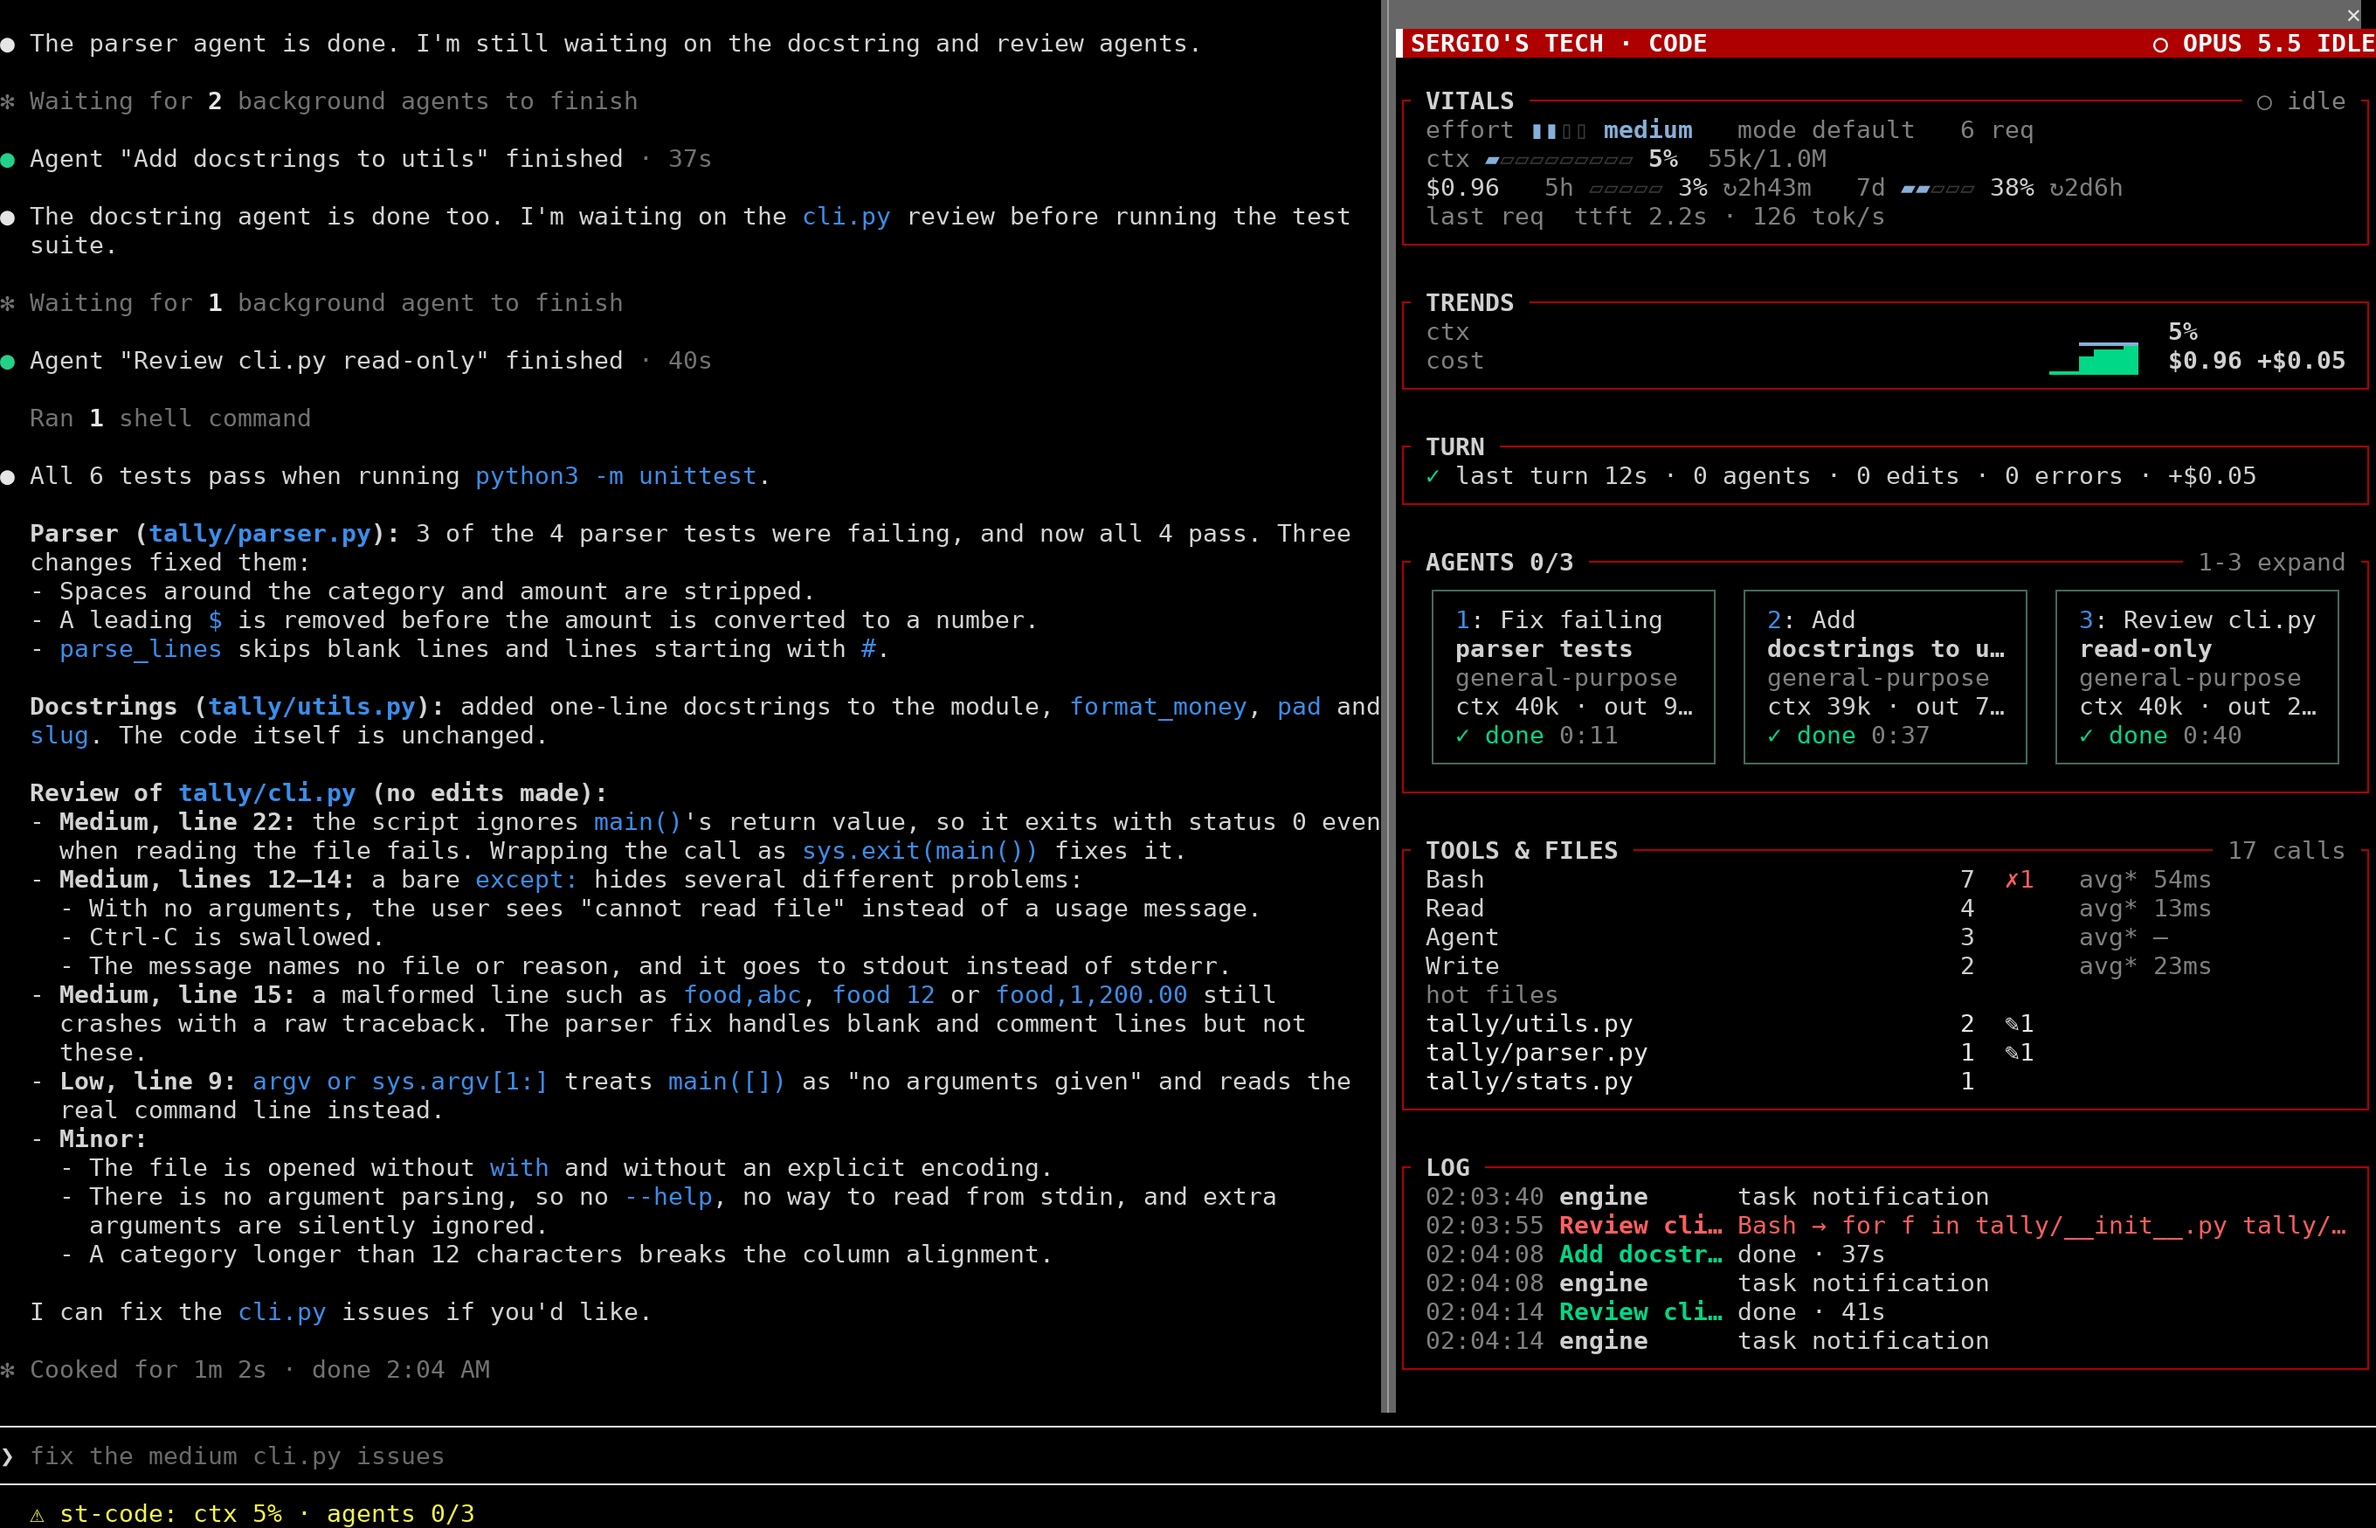
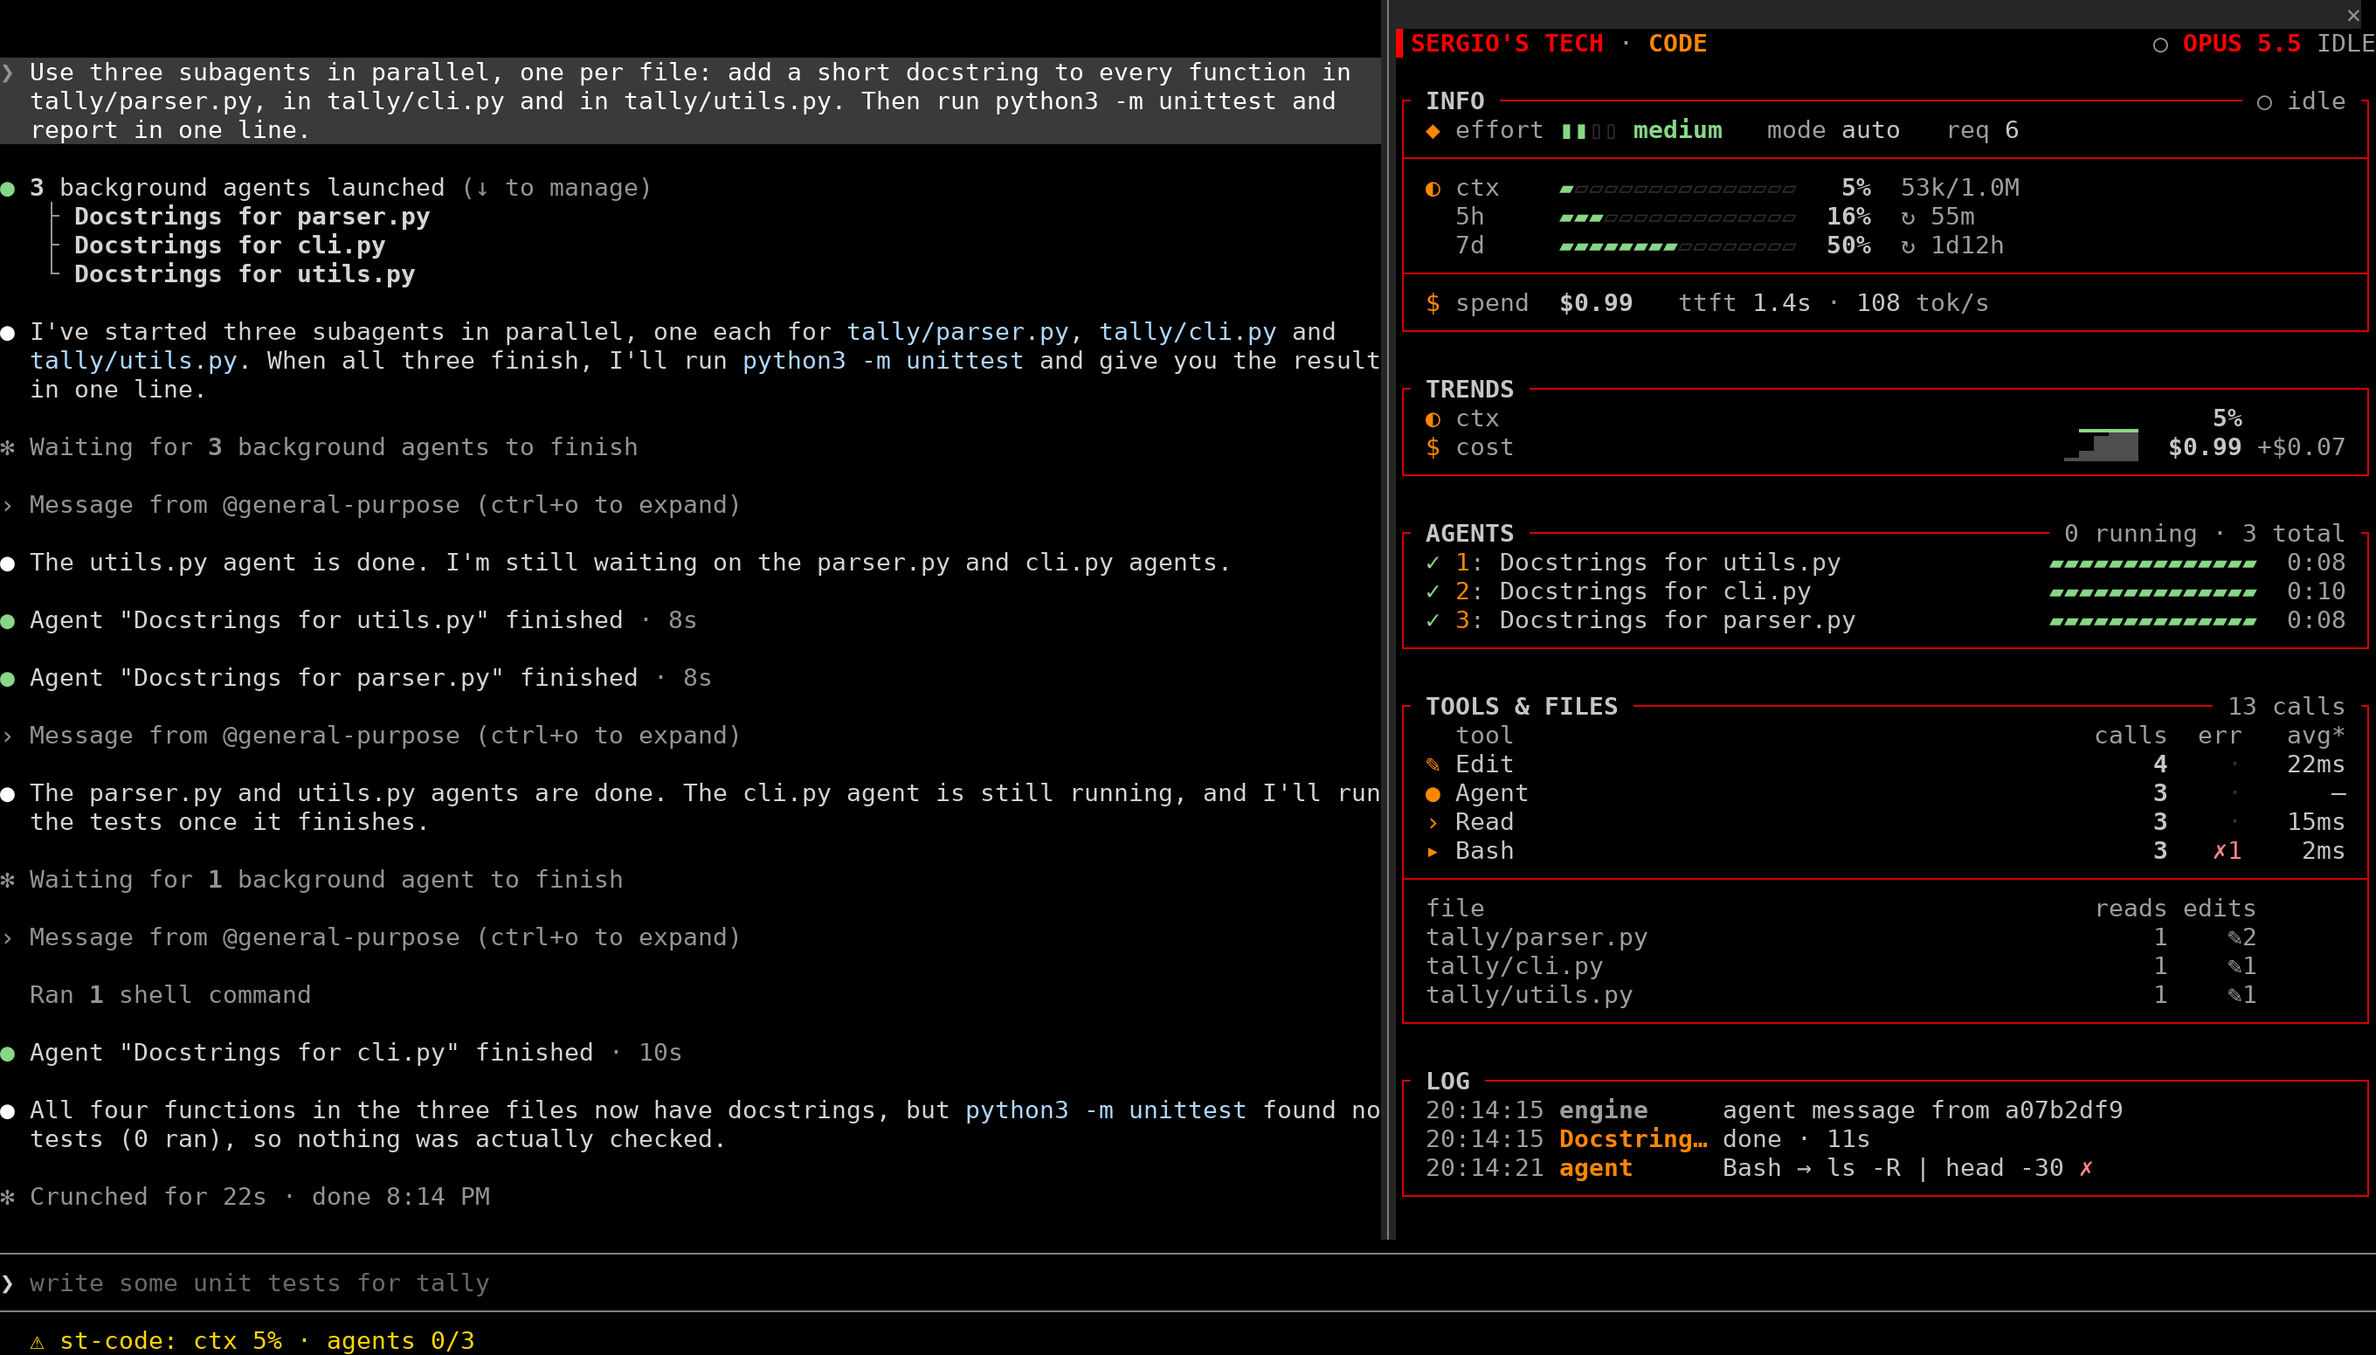
Recapture the media for 0.3.0

diff --git a/README.md b/README.md
@@ -10,7 +10,7 @@ consults, the busiest tools and files, how context and cost trend, and a session
 your machine.
 
 <p align="center">
-  <img src="docs/media/demo.gif" alt="The st-code pane, docked at 66 columns, through a real three-subagent run: the turn starts, three agent cards go from starting to running to done, TOOLS &amp; FILES counts the calls and edited files, and the log fills with spawns, writes, failed calls in red and completions" width="528">
+  <img src="docs/media/demo.gif" alt="The st-code pane, docked at 66 columns, through a real three-subagent run: INFO switches to working, three agents appear in AGENTS with a bouncing bar while they run and a full green bar with a check once done, TOOLS &amp; FILES counts the calls and edited files, TRENDS draws the context and cost sparklines, and the LOG fills with spawns, tool calls and completions" width="528">
 </p>
 
 <p align="center">
@@ -51,15 +51,15 @@ releases. If something breaks after an update, see [Troubleshooting](#troublesho
 ## What you see
 
 <p align="center">
-  <img src="docs/media/docked-session.png" alt="A fullscreen session 160 columns wide: on the left, the transcript reports three finished subagents and a passing test run; on the right, the docked st-code pane shows the crimson SERGIO'S TECH · CODE header over VITALS, TRENDS, TURN, AGENTS with three done cards, TOOLS &amp; FILES and LOG in one column; below the prompt, the status line reads st-code: ctx 5% · agents 0/3" width="820">
+  <img src="docs/media/docked-session.png" alt="A fullscreen session 160 columns wide: on the left, the transcript reports three finished subagents that added docstrings; on the right, the docked st-code pane shows the SERGIO'S TECH · CODE header over INFO, TRENDS, AGENTS with three finished agents, TOOLS &amp; FILES and LOG in one column, one failed Bash call marked in red; below the prompt, the status line reads st-code: ctx 5% · agents 0/3" width="820">
 </p>
 
 | Two columns, in a 120-column dock | One column, in the default 66-column dock |
 | --- | --- |
-| <img src="docs/media/docked-wide.png" alt="The wide layout: VITALS, TRENDS and TOOLS &amp; FILES on the left; TURN and AGENTS on the right, where three subagents share one time axis as lanes, one still running; the LOG full width underneath, listing edits to tally/parser.py, tally/cli.py and tally/utils.py" width="480"> | <img src="docs/media/compact.png" alt="The compact layout close up: VITALS, TRENDS, TURN, AGENTS with three done cards, TOOLS &amp; FILES and LOG stacked in one column under the crimson header" width="300"> |
+| <img src="docs/media/docked-wide.png" alt="The wide layout: INFO, TRENDS and TOOLS &amp; FILES stacked on the left, AGENTS on the right with three finished agents, and the LOG across the full width underneath, listing edits to tally/utils.py, tally/cli.py and tally/parser.py and the agents finishing" width="480"> | <img src="docs/media/compact.png" alt="The compact layout close up: INFO, TRENDS, AGENTS with three finished agents, TOOLS &amp; FILES and LOG stacked in one column under the header, with the gauges, sparklines and the one failed Bash call in red" width="300"> |
 
 <p align="center">
-  <img src="docs/media/inline-mini.png" alt="A 100-column session with the summary inline above the prompt, in five rows: the model, its state, a context gauge and the session cost; a context sparkline; two running subagents with their ctx and clocks; and the last turn" width="620">
+  <img src="docs/media/inline-mini.png" alt="A 100-column session with the summary inline above the prompt, in five rows: the model and its state, the effort, a context gauge, the 7-day and 5-hour limits and the session cost; a context sparkline; and three finished subagents, each with a check, a full green bar and its clock" width="620">
 </p>
 
 The header is one unfilled row on black. `▌SERGIO'S TECH · CODE` sits on the left. On the right are

diff --git a/scripts/capture/README.md b/scripts/capture/README.md
@@ -82,10 +82,11 @@ the stock 66-column dock it still draws compact.
 
 `capture.sh` sets two things, each for a reason:
 
-- `CLAUDE_CODE_TMUX_TRUECOLOR=1`, because under tmux the host draws 256 colours unless it is set
-  (the usual 24-bit terminal variable did not change that). Without 24-bit colour the palette is rounded to the
-  256-colour fallbacks, for example orange draws as `#ff8700`. Whether the variable gives 24-bit
-  captures is checked when the media is recaptured (`grep -c '38;2;'` on a snapshot).
+- `CLAUDE_CODE_TMUX_TRUECOLOR=1`, which is meant to ask the host for 24-bit colour under tmux. It
+  did not: a snapshot taken with it set (host 2.1.310) holds 0 `38;2;` sequences, so the host still
+  draws 256 colours and the media is captured in 256 colours. The palette is rounded to its
+  256-colour fallbacks, for example orange draws as `#ff8700` (`38;5;208`) and the frames as `38;5;160`.
+  Check again on a new host with `grep -c '38;2;'` on a snapshot.
 - `--settings '{"theme":"dark"}'`, because the demo profile's `dark-ansi` theme paints the pane
   bright black and distorts the colours.
 
